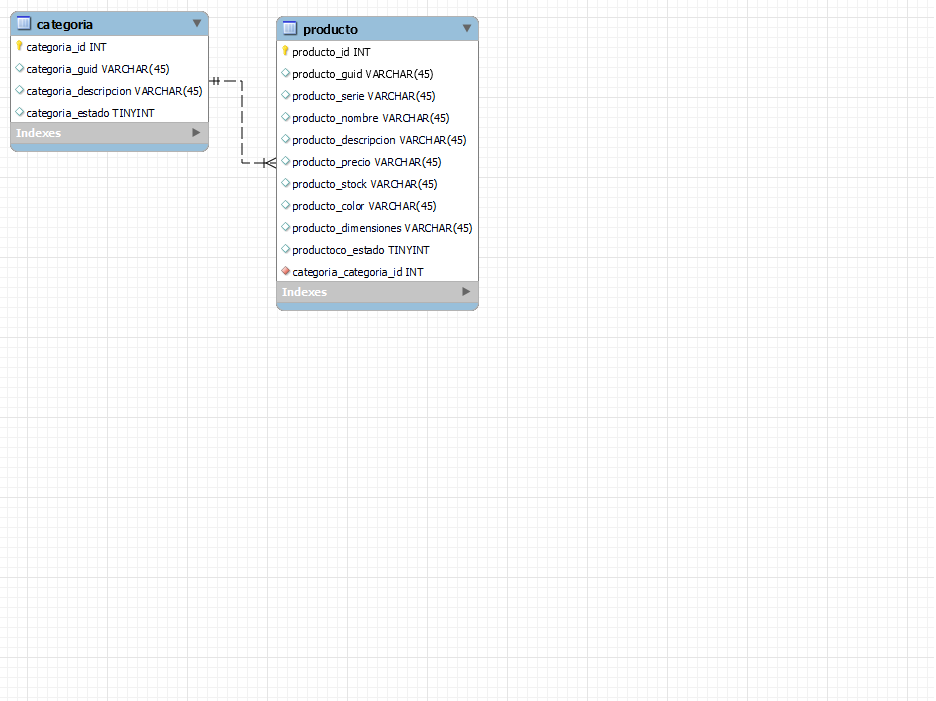
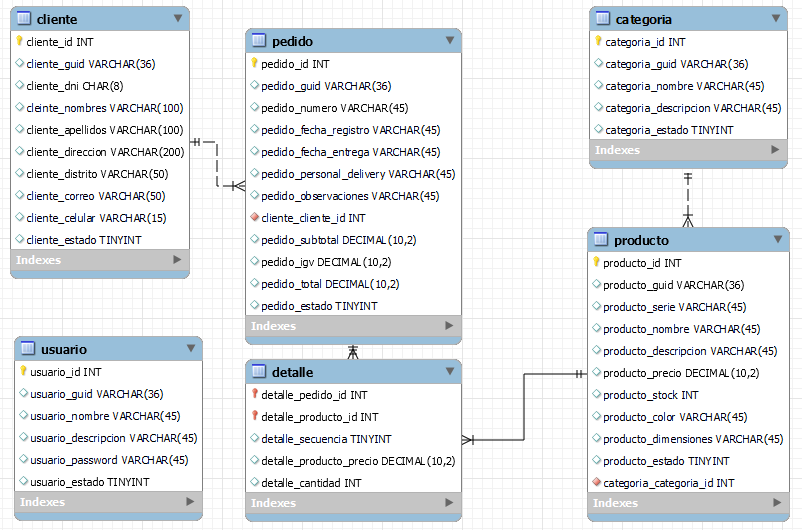
feat update models

diff --git a/backend/app/repositories/producto_repository.py b/backend/app/repositories/producto_repository.py
@@ -16,8 +16,10 @@ class ProductoRepository:
         try:
             cursor = connection.cursor(dictionary=True)
             query = """
-                SELECT producto_id, producto_nombre, producto_descripcion, 
-                       producto_precio, categoria_id FROM producto
+                SELECT producto_id, producto_guid, producto_serie, producto_nombre, 
+                       producto_descripcion, producto_precio, producto_stock, 
+                       producto_color, producto_dimensiones, producto_estado, 
+                       categoria_categoria_id FROM producto
             """
             cursor.execute(query)
             results = cursor.fetchall()
@@ -26,10 +28,16 @@ class ProductoRepository:
             for row in results:
                 productos.append(Producto(
                     producto_id=row['producto_id'],
+                    producto_guid=row['producto_guid'],
+                    producto_serie=row['producto_serie'],
                     producto_nombre=row['producto_nombre'],
                     producto_descripcion=row['producto_descripcion'],
                     producto_precio=row['producto_precio'],
-                    categoria_id=row['categoria_id']
+                    producto_stock=row['producto_stock'],
+                    producto_color=row['producto_color'],
+                    producto_dimensiones=row['producto_dimensiones'],
+                    producto_estado=row['producto_estado'],
+                    categoria_categoria_id=row['categoria_categoria_id']
                 ))
             return productos
         except Error as e:
@@ -48,8 +56,10 @@ class ProductoRepository:
         try:
             cursor = connection.cursor(dictionary=True)
             query = """
-                SELECT producto_id, producto_nombre, producto_descripcion, 
-                       producto_precio, categoria_id FROM producto WHERE producto_id = %s
+                SELECT producto_id, producto_guid, producto_serie, producto_nombre, 
+                       producto_descripcion, producto_precio, producto_stock, 
+                       producto_color, producto_dimensiones, producto_estado, 
+                       categoria_categoria_id FROM producto WHERE producto_id = %s
             """
             cursor.execute(query, (producto_id,))
             result = cursor.fetchone()
@@ -57,10 +67,16 @@ class ProductoRepository:
             if result:
                 return Producto(
                     producto_id=result['producto_id'],
+                    producto_guid=result['producto_guid'],
+                    producto_serie=result['producto_serie'],
                     producto_nombre=result['producto_nombre'],
                     producto_descripcion=result['producto_descripcion'],
                     producto_precio=result['producto_precio'],
-                    categoria_id=result['categoria_id']
+                    producto_stock=result['producto_stock'],
+                    producto_color=result['producto_color'],
+                    producto_dimensiones=result['producto_dimensiones'],
+                    producto_estado=result['producto_estado'],
+                    categoria_categoria_id=result['categoria_categoria_id']
                 )
             return None
         except Error as e:
@@ -79,26 +95,27 @@ class ProductoRepository:
         try:
             cursor = connection.cursor()
             query = """
-                INSERT INTO producto (producto_nombre, producto_descripcion, 
-                                     producto_precio, categoria_id) 
-                VALUES (%s, %s, %s, %s)
+                INSERT INTO producto (producto_guid, producto_serie, producto_nombre, 
+                                     producto_descripcion, producto_precio, producto_stock, 
+                                     producto_color, producto_dimensiones, producto_estado, 
+                                     categoria_categoria_id) 
+                VALUES (UUID(), %s, %s, %s, %s, %s, %s, %s, %s, %s)
             """
             cursor.execute(query, (
+                producto.producto_serie,
                 producto.producto_nombre,
                 producto.producto_descripcion,
                 producto.producto_precio,
-                producto.categoria_id
+                producto.producto_stock,
+                producto.producto_color,
+                producto.producto_dimensiones,
+                producto.producto_estado,
+                producto.categoria_categoria_id
             ))
             connection.commit()
 
             producto_id = cursor.lastrowid
-            return Producto(
-                producto_id=producto_id,
-                producto_nombre=producto.producto_nombre,
-                producto_descripcion=producto.producto_descripcion,
-                producto_precio=producto.producto_precio,
-                categoria_id=producto.categoria_id
-            )
+            return ProductoRepository.get_by_id(producto_id)
         except Error as e:
             print(f"Error al crear producto: {e}")
             connection.rollback()
@@ -132,9 +149,25 @@ class ProductoRepository:
                 update_fields.append("producto_precio = %s")
                 values.append(producto.producto_precio)
 
-            if producto.categoria_id is not None:
-                update_fields.append("categoria_id = %s")
-                values.append(producto.categoria_id)
+            if producto.producto_stock is not None:
+                update_fields.append("producto_stock = %s")
+                values.append(producto.producto_stock)
+
+            if producto.producto_color is not None:
+                update_fields.append("producto_color = %s")
+                values.append(producto.producto_color)
+
+            if producto.producto_dimensiones is not None:
+                update_fields.append("producto_dimensiones = %s")
+                values.append(producto.producto_dimensiones)
+
+            if producto.producto_estado is not None:
+                update_fields.append("producto_estado = %s")
+                values.append(producto.producto_estado)
+
+            if producto.categoria_categoria_id is not None:
+                update_fields.append("categoria_categoria_id = %s")
+                values.append(producto.categoria_categoria_id)
 
             if not update_fields:
                 return None  # No hay campos para actualizar

diff --git a/backend/app/repositories/categoria_repository.py b/backend/app/repositories/categoria_repository.py
@@ -15,7 +15,7 @@ class CategoriaRepository:
 
         try:
             cursor = connection.cursor(dictionary=True)
-            query = "SELECT categoria_id, categoria_descripcion FROM categoria"
+            query = "SELECT categoria_id, categoria_guid, categoria_nombre, categoria_descripcion, categoria_estado FROM categoria"
             cursor.execute(query)
             results = cursor.fetchall()
 
@@ -23,7 +23,10 @@ class CategoriaRepository:
             for row in results:
                 categorias.append(Categoria(
                     categoria_id=row['categoria_id'],
-                    categoria_descripcion=row['categoria_descripcion']
+                    categoria_guid=row['categoria_guid'],
+                    categoria_nombre=row['categoria_nombre'],
+                    categoria_descripcion=row['categoria_descripcion'],
+                    categoria_estado=row['categoria_estado']
                 ))
             return categorias
         except Error as e:
@@ -41,14 +44,17 @@ class CategoriaRepository:
 
         try:
             cursor = connection.cursor(dictionary=True)
-            query = "SELECT categoria_id, categoria_descripcion FROM categoria WHERE categoria_id = %s"
+            query = "SELECT categoria_id, categoria_guid, categoria_nombre, categoria_descripcion, categoria_estado FROM categoria WHERE categoria_id = %s"
             cursor.execute(query, (categoria_id,))
             result = cursor.fetchone()
 
             if result:
                 return Categoria(
                     categoria_id=result['categoria_id'],
-                    categoria_descripcion=result['categoria_descripcion']
+                    categoria_guid=result['categoria_guid'],
+                    categoria_nombre=result['categoria_nombre'],
+                    categoria_descripcion=result['categoria_descripcion'],
+                    categoria_estado=result['categoria_estado']
                 )
             return None
         except Error as e:
@@ -66,15 +72,16 @@ class CategoriaRepository:
 
         try:
             cursor = connection.cursor()
-            query = "INSERT INTO categoria (categoria_guid, categoria_descripcion) VALUES (UUID(), %s)"
-            cursor.execute(query, (categoria.categoria_descripcion,))
+            query = "INSERT INTO categoria (categoria_guid, categoria_nombre, categoria_descripcion, categoria_estado) VALUES (UUID(), %s, %s, %s)"
+            cursor.execute(query, (
+                categoria.categoria_nombre,
+                categoria.categoria_descripcion,
+                categoria.categoria_estado
+            ))
             connection.commit()
 
             categoria_id = cursor.lastrowid
-            return Categoria(
-                categoria_id=categoria_id,
-                categoria_descripcion=categoria.categoria_descripcion
-            )
+            return CategoriaRepository.get_by_id(categoria_id)
         except Error as e:
             print(f"Error al crear categoría: {e}")
             connection.rollback()
@@ -96,9 +103,17 @@ class CategoriaRepository:
             update_fields = []
             values = []
 
+            if categoria.categoria_nombre is not None:
+                update_fields.append("categoria_nombre = %s")
+                values.append(categoria.categoria_nombre)
+
             if categoria.categoria_descripcion is not None:
                 update_fields.append("categoria_descripcion = %s")
                 values.append(categoria.categoria_descripcion)
+
+            if categoria.categoria_estado is not None:
+                update_fields.append("categoria_estado = %s")
+                values.append(categoria.categoria_estado)
 
             if not update_fields:
                 return None  # No hay campos para actualizar

diff --git a/backend/app/routes/productos.py b/backend/app/routes/productos.py
@@ -1,22 +1,61 @@
 from fastapi import APIRouter, HTTPException, status
-from typing import List, Optional
-
-# Import models and services when implemented
-# from ..models import Producto, ProductoCreate, ProductoUpdate
-# from ..producto_service import ProductoService
+from typing import List
+from ..models import Producto, ProductoCreate, ProductoUpdate
+from ..services import ProductoService
 
 router = APIRouter(prefix="/productos", tags=["productos"])
 
 
-@router.get("/", status_code=status.HTTP_200_OK)
+@router.get("/", response_model=List[Producto], status_code=status.HTTP_200_OK)
 def listar_productos():
-    """Listado de productos (placeholder)."""
-    # Replace with: return ProductoService.get_all_productos()
-    return []
+    """Listar todos los productos"""
+    productos = ProductoService.get_all_productos()
+    return productos
 
 
-@router.get("/{producto_id}", status_code=status.HTTP_200_OK)
+@router.get("/{producto_id}", response_model=Producto, status_code=status.HTTP_200_OK)
 def obtener_producto(producto_id: int):
-    """Obtener producto por ID (placeholder)."""
-    # Replace with actual service lookup
-    raise HTTPException(status_code=status.HTTP_404_NOT_FOUND, detail="No implementado")
+    """Obtener un producto por ID"""
+    producto = ProductoService.get_producto_by_id(producto_id)
+    if producto is None:
+        raise HTTPException(
+            status_code=status.HTTP_404_NOT_FOUND,
+            detail=f"Producto con ID {producto_id} no encontrado"
+        )
+    return producto
+
+
+@router.post("/", response_model=Producto, status_code=status.HTTP_201_CREATED)
+def crear_producto(producto: ProductoCreate):
+    """Crear un nuevo producto"""
+    nuevo_producto = ProductoService.create_producto(producto)
+    if nuevo_producto is None:
+        raise HTTPException(
+            status_code=status.HTTP_500_INTERNAL_SERVER_ERROR,
+            detail="Error al crear el producto"
+        )
+    return nuevo_producto
+
+
+@router.put("/{producto_id}", response_model=Producto, status_code=status.HTTP_200_OK)
+def actualizar_producto(producto_id: int, producto: ProductoUpdate):
+    """Actualizar un producto existente"""
+    producto_actualizado = ProductoService.update_producto(producto_id, producto)
+    if producto_actualizado is None:
+        raise HTTPException(
+            status_code=status.HTTP_404_NOT_FOUND,
+            detail=f"Producto con ID {producto_id} no encontrado"
+        )
+    return producto_actualizado
+
+
+@router.delete("/{producto_id}", status_code=status.HTTP_200_OK)
+def eliminar_producto(producto_id: int):
+    """Eliminar un producto"""
+    eliminado = ProductoService.delete_producto(producto_id)
+    if not eliminado:
+        raise HTTPException(
+            status_code=status.HTTP_404_NOT_FOUND,
+            detail=f"Producto con ID {producto_id} no encontrado"
+        )
+    return {"message": f"Producto con ID {producto_id} eliminado correctamente"}

diff --git a/backend/app/models/producto.py b/backend/app/models/producto.py
@@ -6,22 +6,32 @@ class ProductoBase(BaseModel):
     producto_nombre: str
     producto_descripcion: str
     producto_precio: float
-    categoria_id: int
+    producto_stock: int
+    producto_color: Optional[str] = None
+    producto_dimensiones: Optional[str] = None
+    producto_estado: Optional[int] = None
+    categoria_categoria_id: int
 
 
 class ProductoCreate(ProductoBase):
-    pass
+    producto_serie: Optional[str] = None
 
 
 class ProductoUpdate(BaseModel):
     producto_nombre: Optional[str] = None
     producto_descripcion: Optional[str] = None
     producto_precio: Optional[float] = None
-    categoria_id: Optional[int] = None
+    producto_stock: Optional[int] = None
+    producto_color: Optional[str] = None
+    producto_dimensiones: Optional[str] = None
+    producto_estado: Optional[int] = None
+    categoria_categoria_id: Optional[int] = None
 
 
 class Producto(ProductoBase):
     producto_id: int
+    producto_guid: Optional[str] = None
+    producto_serie: Optional[str] = None
 
     class Config:
         from_attributes = True

diff --git a/backend/app/models/categoria.py b/backend/app/models/categoria.py
@@ -3,7 +3,9 @@ from typing import Optional
 
 
 class CategoriaBase(BaseModel):
+    categoria_nombre: str
     categoria_descripcion: str
+    categoria_estado: Optional[int] = None
 
 
 class CategoriaCreate(CategoriaBase):
@@ -11,11 +13,14 @@ class CategoriaCreate(CategoriaBase):
 
 
 class CategoriaUpdate(BaseModel):
+    categoria_nombre: Optional[str] = None
     categoria_descripcion: Optional[str] = None
+    categoria_estado: Optional[int] = None
 
 
 class Categoria(CategoriaBase):
     categoria_id: int
+    categoria_guid: Optional[str] = None
 
     class Config:
         from_attributes = True
